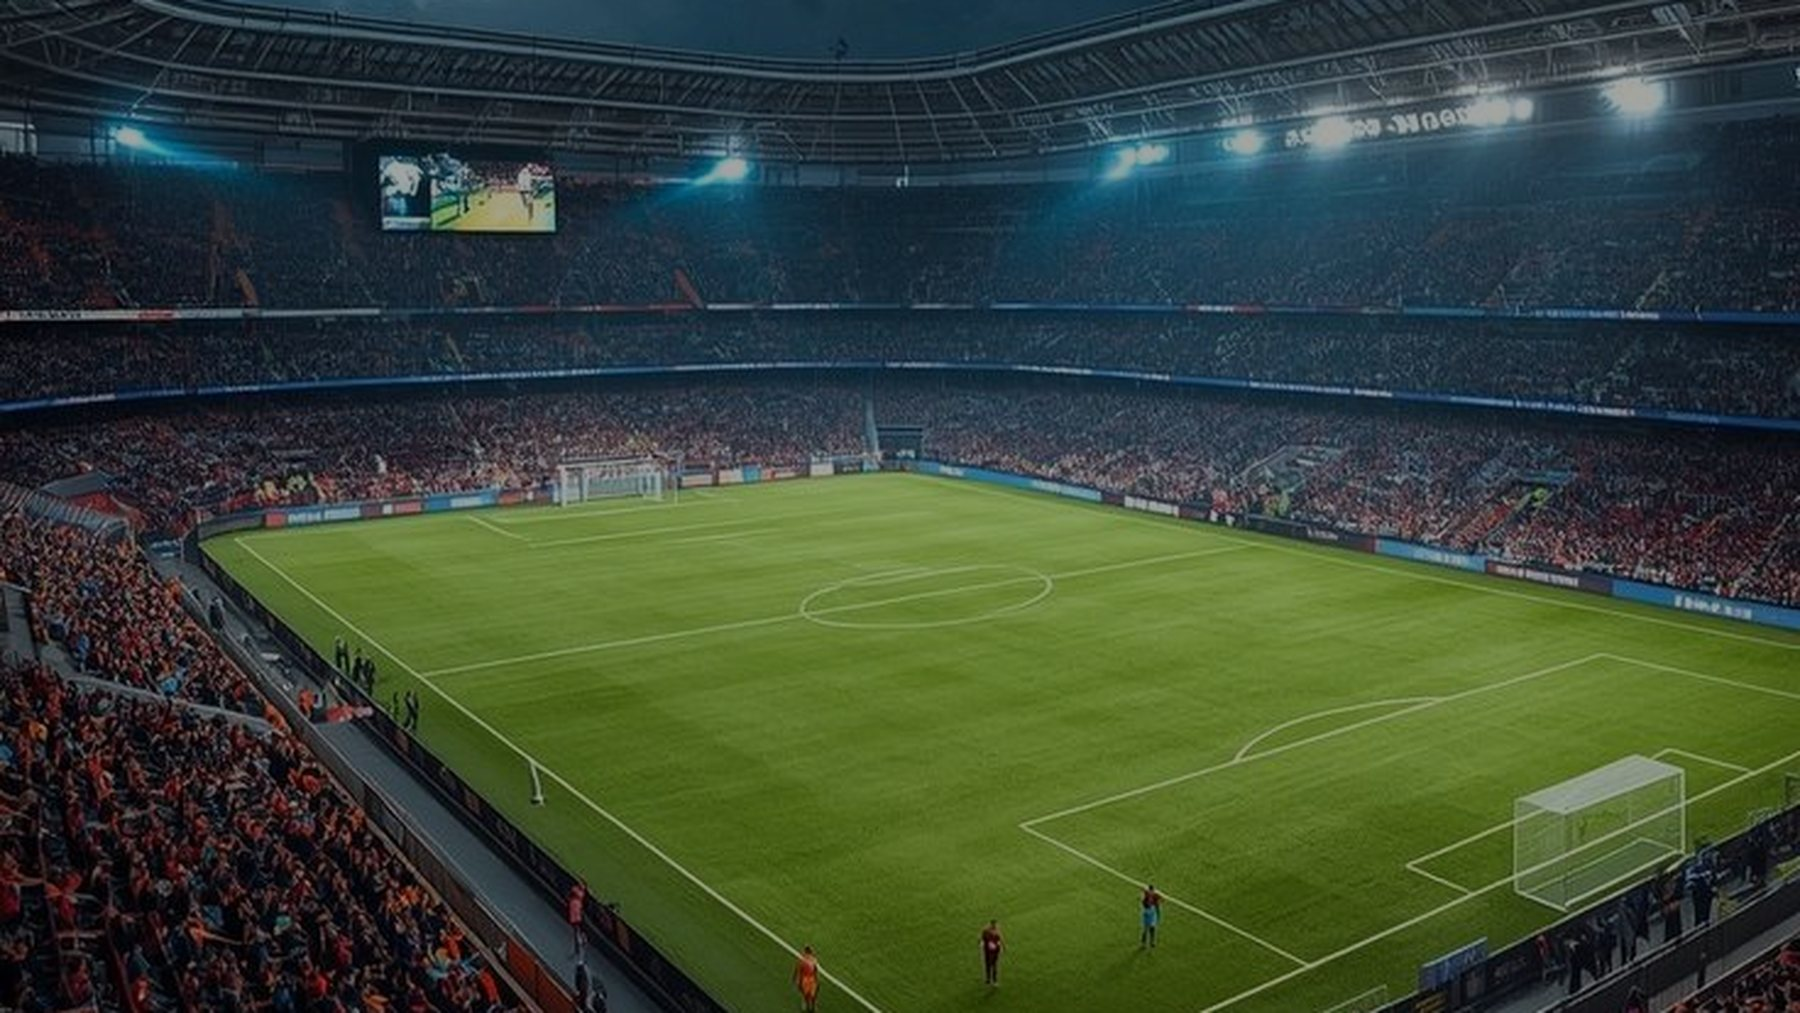
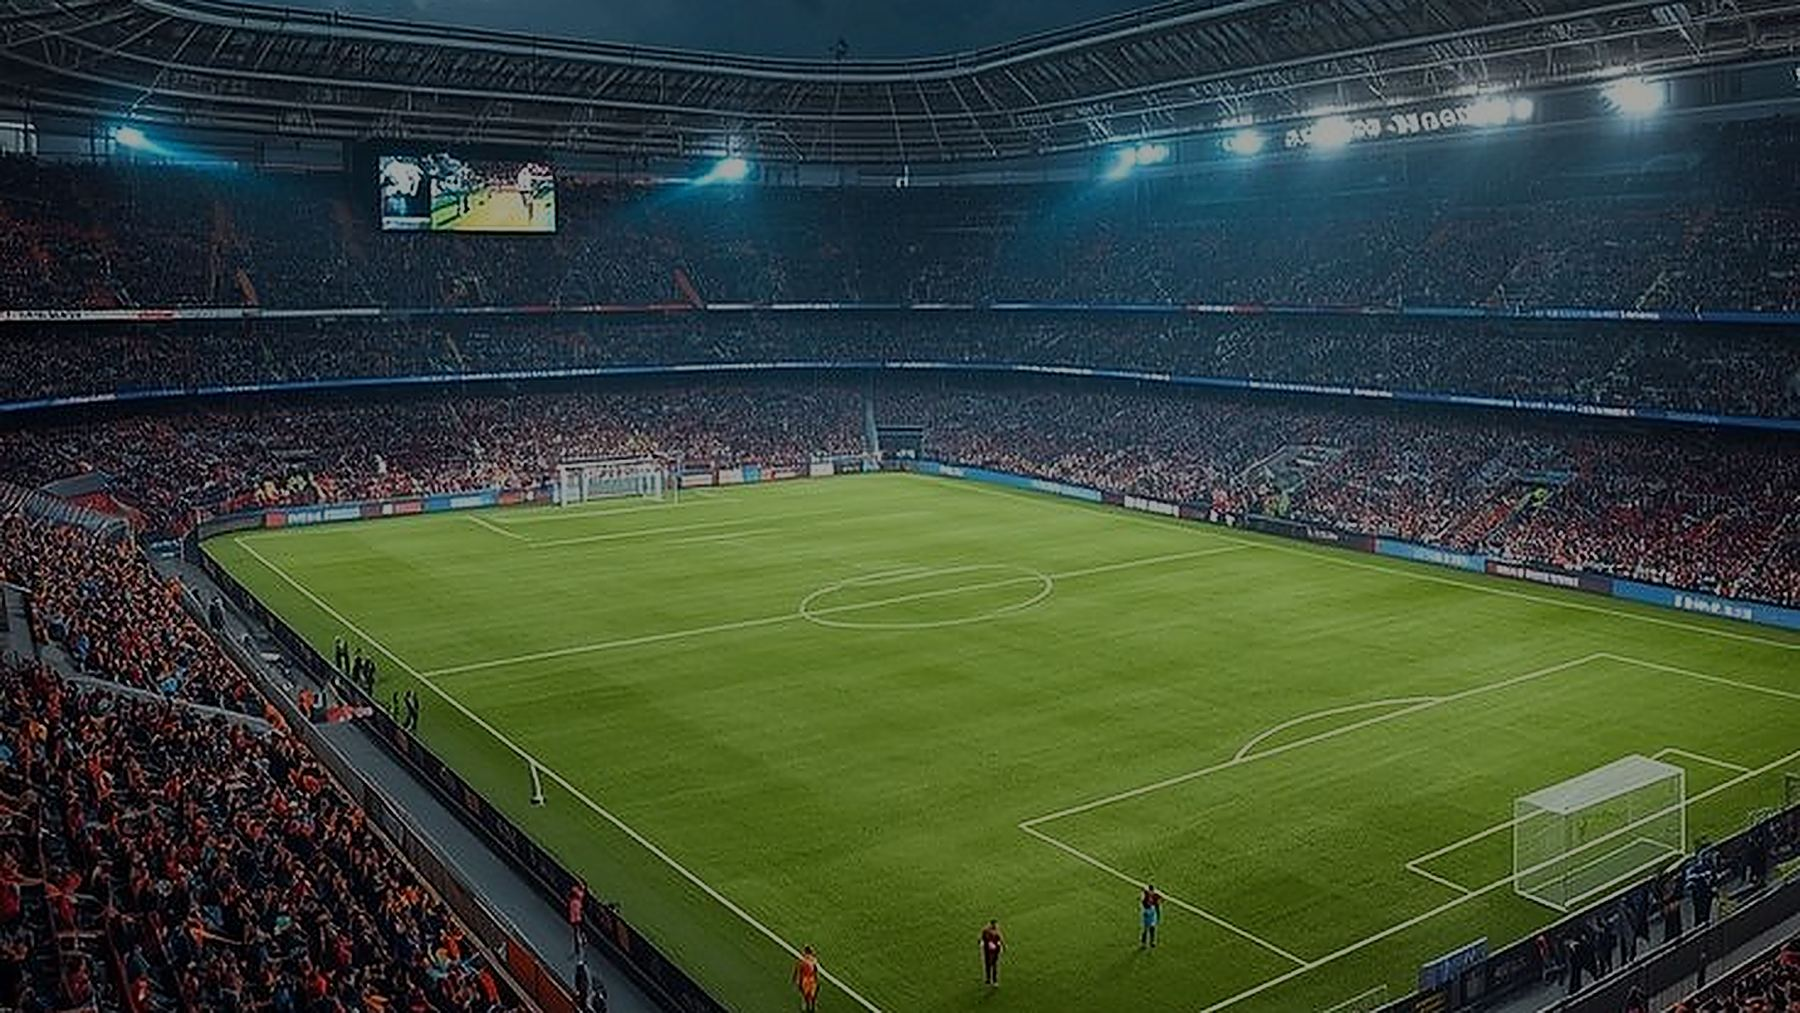
Stop throwing away detail on the way to the screen
The source is 736px wide; there is no more information to be had. What there
was, three things were discarding:

One Lanczos jump straight to the target dissolves detail — the upscale now
goes in ~1.5x steps with an unsharp mask at each one. Serving 1800px to a
2x display makes the browser scale again with a dumb bilinear filter, so
there is a 2560px variant now. And blur(1.2px) existed to hide the hard
upscale of the first problem; with that fixed it was only erasing work, so
it drops to .35px.

WebP past 1800px: the same frame is 413KB as JPEG and 262KB as WebP. Format
and density are negotiated with image-set() behind an @supports guard —
NOT inside the custom property, because an invalid var() computes to none
rather than falling back to the previous declaration, which would erase the
background entirely on older browsers. The JPEG stays as that fallback.
The preload now carries imagesrcset with the same two densities and the
same ?v=, so exactly one file is fetched: verified, 263KB, no duplicate.

Sharpening raises local highlights and the blur no longer softens them, so
the scrim was re-measured against the real text geometry rather than an
estimate — read out of a 390px iframe, which is what finally showed the
mobile header sits at y=109..195, twice the share of the viewport it takes
on desktop, with the floodlights directly behind it. Desktop goes to 64%
and mobile gets its own 78% profile. Worst point of the entire header band,
[…]

diff --git a/app/premium.css b/app/premium.css
@@ -58,11 +58,13 @@ h2, .card-head h2, .br-title, .fx-date {
   position: absolute; inset: -1.5%;
   background-image: var(--bg-estadio);
   background-size: cover; background-position: 50% 38%;
-  /* El original es pequeño: un desenfoque mínimo es más honesto que un
-     escalado duro, y de paso lo aparta del contenido. */
+  /* El desenfoque estaba en 1.2px para tapar un escalado duro. Ahora el
+     escalado se hace por pasos con máscara de enfoque y se entrega a 2560,
+     así que ese px y pico de desenfoque ya solo estaba tirando detalle a la
+     basura. A .35 sigue apartando la foto del contenido sin emborronarla. */
   /* `brightness` domada: la foto trae un estallido de luz arriba al centro y
      sin bajarlo las fichas de vidrio que caen ahí se lavaban a blanco. */
-  filter: saturate(.92) contrast(1.1) brightness(.98) blur(1.2px);
+  filter: saturate(.92) contrast(1.1) brightness(.98) blur(.35px);
 }
 @media (max-width: 48rem) {
   .vb-photo { background-image: var(--bg-estadio-movil); background-position: 50% 30%; }
@@ -95,18 +97,31 @@ h2, .card-head h2, .br-title, .fx-date {
    abajo. El perfil viejo hacía lo contrario de lo que hace falta: 46 % arriba,
    donde va el titular, y 88 % al final, donde no hay nada que leer.
 
-   Los números salen de medir, no de tantear. Con el encuadre nuevo el borde
-   del techo y los reflectores caen justo detrás del subtítulo, y a 46 % el
-   texto secundario daba 3.21:1 — por debajo de AA. El 60 % de la primera
-   parada lo sube a 4.68:1. La rampa larga hasta el 34 % es para que el corte
-   no se vea: 150 px para bajar .31 de alfa. */
+   Los números salen de medir, no de tantear: el borde del techo y los
+   reflectores caen justo detrás del subtítulo. La rampa larga es para que el
+   escalón no se vea — unos 140 px para bajar .35 de alfa.
+
+   Móvil lleva su propio perfil, más abajo, y no por capricho: ahí la cabecera
+   empieza en y=109 y termina en y=195, o sea que ocupa el doble de proporción
+   de pantalla que en escritorio, y el recorte vertical pone los reflectores
+   justo detrás. Con el perfil de escritorio el rótulo daba 3.12:1. */
 .view-bg.is-stadium .vb-scrim {
   background:
     radial-gradient(90% 60% at 50% 0%, rgba(var(--accent-rgb), .14), transparent 62%),
     linear-gradient(180deg,
-      rgba(4,8,16,.60) 0%,  rgba(4,8,16,.55) 14%,
-      rgba(4,8,16,.24) 34%, rgba(4,8,16,.30) 58%,
+      rgba(4,8,16,.64) 0%,  rgba(4,8,16,.59) 16%,
+      rgba(4,8,16,.24) 36%, rgba(4,8,16,.30) 58%,
       rgba(4,8,16,.62) 100%);
+}
+@media (max-width: 48rem) {
+  .view-bg.is-stadium .vb-scrim {
+    background:
+      radial-gradient(90% 60% at 50% 0%, rgba(var(--accent-rgb), .14), transparent 62%),
+      linear-gradient(180deg,
+        rgba(4,8,16,.78) 0%,  rgba(4,8,16,.73) 22%,
+        rgba(4,8,16,.24) 44%, rgba(4,8,16,.30) 62%,
+        rgba(4,8,16,.62) 100%);
+  }
 }
 
 /* La cancha a sangre también recibe grano, por coherencia de material. */

diff --git a/themes/momentum.css b/themes/momentum.css
@@ -243,8 +243,8 @@
    al revés, en escritorio el estadio se recorta a una franja y se pierden
    las gradas y los reflectores, que es lo que hace la foto.               */
 
-  --bg-estadio:        url('../assets/fondos/estadio-desktop.jpg?v=5');
-  --bg-estadio-movil:  url('../assets/fondos/estadio-mobile.jpg?v=5');
+  --bg-estadio:        url('../assets/fondos/estadio-desktop.jpg?v=6');
+  --bg-estadio-movil:  url('../assets/fondos/estadio-mobile.jpg?v=6');
 
 /* ── 8. HALOS DEL FONDO POR DEPORTE ────────────────────────────────────── */
 
@@ -253,4 +253,24 @@
   --halo-tenis:     rgba(80,210,160,.28);
   --halo-voleibol:  rgba(220,160,80,.26);
   --halo-paintball: rgba(229,35,31,.24);
+}
+
+/* El original de la foto son 736 px de ancho: todo lo que se sirve es un
+   escalado. Se entrega a 2560 para que la pantalla retina no vuelva a
+   escalar encima con un filtro bilineal tonto —eso es la mitad de la
+   sensación de "poco HD"—, y en WebP porque a esa resolución el JPEG pesa
+   413 KB y el WebP 262 KB por la misma imagen.
+
+   Va en @supports y NO dentro del token directamente: si un navegador no
+   entiende `image-set`, un `var()` inválido no cae al valor anterior —
+   computa a `none` y el fondo desaparece entero. Así el respaldo JPEG de
+   arriba se queda intacto para quien no llegue aquí. */
+@supports (background-image: image-set(url('a.webp') type('image/webp') 1x)) {
+  :root {
+    --bg-estadio: image-set(
+      url('../assets/fondos/estadio-desktop.webp?v=6')    type('image/webp') 1x,
+      url('../assets/fondos/estadio-desktop@2x.webp?v=6') type('image/webp') 2x);
+    --bg-estadio-movil: image-set(
+      url('../assets/fondos/estadio-mobile.webp?v=6') type('image/webp') 1x);
+  }
 }

diff --git a/index.html b/index.html
@@ -10,7 +10,7 @@
 <meta property="og:type" content="website">
 <meta property="og:title" content="Sportplatz — reservas, torneos y Neo AI para canchas">
 <meta property="og:description" content="Configura tu complejo deportivo en cuatro preguntas y entra a la plataforma: agenda por hora, torneos con llaves que avanzan solas, equipos con su histórico y un bot que reserva por WhatsApp.">
-<meta property="og:image" content="assets/fondos/estadio-desktop.jpg?v=5">
+<meta property="og:image" content="assets/fondos/estadio-desktop.jpg?v=6">
 <meta name="theme-color" content="#0a0c0b">
 <meta name="twitter:card" content="summary_large_image">
 
@@ -24,10 +24,15 @@
 <link rel="stylesheet" href="app/base.css">
 <link rel="stylesheet" href="app/premium.css">
 
-<!-- La versión tiene que coincidir con la de momentum.css: sin ella el
-     navegador precarga una URL y la hoja pide otra — dos descargas, cero
-     beneficio. -->
-<link rel="preload" as="image" href="assets/fondos/estadio-desktop.jpg?v=5" media="(min-width: 48rem)">
+<!-- La precarga tiene que pedir EXACTAMENTE lo que va a pedir la hoja de
+     estilos, versión incluida, o son dos descargas y cero beneficio. Como el
+     fondo se sirve por `image-set`, aquí va `imagesrcset` con las mismas dos
+     densidades: el navegador precarga una sola, la que le toca. El atributo
+     `type` hace que quien no entienda WebP se salte la precarga y se quede
+     con el JPEG que pide la hoja. -->
+<link rel="preload" as="image" type="image/webp" media="(min-width: 48rem)"
+      imagesrcset="assets/fondos/estadio-desktop.webp?v=6 1x,
+                   assets/fondos/estadio-desktop@2x.webp?v=6 2x">
 
 <link rel="icon" type="image/png" href="assets/marca/favicon.png">
 <link rel="apple-touch-icon" href="assets/marca/favicon.png">

diff --git a/app/core/sports.js b/app/core/sports.js
@@ -131,7 +131,7 @@ export const SPORT_LIST = Object.values(SPORTS);
    cuando el archivo no existía se queda igual de pegada — que es exactamente
    lo que pasó con la de tenis.
    SUBE ESTE NÚMERO cada vez que reemplaces una imagen conservando el nombre. */
-export const ASSET_V = '5';
+export const ASSET_V = '6';
 export const conVersion = (ruta) => ruta ? `${ruta}?v=${ASSET_V}` : ruta;
 
 export const ballSVG = (sport, cls = '') =>

diff --git a/DESIGN.md b/DESIGN.md
@@ -282,22 +282,30 @@ Sobre la foto del estadio hay exactamente **tres** textos sin superficie propia
 debajo, y los tres viven en los 130 px de arriba: el rótulo, el titular y la
 línea de resumen. Todo lo demás llega con su vidrio oscuro puesto.
 
-Por eso el velo es un escalón y no una lámina: **60 % en la cabecera, 24 % en el
+Por eso el velo es un escalón y no una lámina: **64 % en la cabecera, 24 % en el
 cuenco, 62 % al pie.** El perfil anterior hacía justo lo contrario —46 % arriba
 y 88 % abajo— porque estaba calibrado contra un encuadre que terminaba en
 césped quemado. Con el actual apagaba la grada entera y dejaba el titular a
 `3.21:1`.
 
+**Móvil lleva su propio perfil: 78 % / 24 % / 62 %.** No es capricho. Ahí la
+cabecera va de y=109 a y=195 —el doble de proporción de pantalla que en
+escritorio— y el recorte vertical le pone los reflectores justo detrás. Con el
+perfil de escritorio el rótulo caía a `3.12:1`.
+
 Medido en el punto más claro de cada banda, sobre la composición completa
 (foto → haces en `screen` → velo):
 
-| Texto | Contraste | Mínimo |
-|---|---|---|
-| Rótulo `#34d399` 11 px | 8.03:1 | 4.5 |
-| Titular 34 px blanco | 8.29:1 | 3.0 |
-| Resumen 13 px al `.74` | 4.92:1 | 4.5 |
+| Texto | Escritorio | Móvil | Mínimo |
+|---|---|---|---|
+| Rótulo `#34d399` 11 px | 6.87:1 | 5.64:1 | 4.5 |
+| Titular blanco | 8.83:1 | 7.85:1 | 3.0 |
+| Resumen 13 px al `.74` | 5.27:1 | 4.46:1 | 4.5 |
+| Cualquier texto al `.74`, en **cualquier** punto de la franja | 5.15:1 | 5.25:1 | 4.5 |
 
-En móvil el mismo perfil da 5.35:1 y 5.56:1 — no hace falta una versión aparte.
+> La última fila es la que de verdad protege: las tres primeras miden cada
+> texto donde está hoy, y un titular más largo o una vista con otra línea de
+> resumen se mueve. La franja entera aguanta.
 
 **Los haces sintéticos bajaron a la mitad.** Existían porque el encuadre viejo
 era casi todo cielo y no había luz propia arriba que dibujara volumen. El
@@ -307,10 +315,21 @@ las esquinas superiores y casar la foto con la marca.
 
 ### Las fotos de fondo
 
-`assets/fondos/estadio-desktop.jpg` (horizontal) y `estadio-mobile.jpg`
-(vertical). La horizontal va a escritorio y la vertical a móvil: al revés, en
-escritorio el estadio se recorta a una franja y se pierden las gradas y los
-reflectores, que es lo que hace la foto.
+La horizontal va a escritorio y la vertical a móvil: al revés, en escritorio el
+estadio se recorta a una franja y se pierden las gradas y los reflectores, que
+es lo que hace la foto.
+
+| Archivo | Tamaño | Peso | Para |
+|---|---|---|---|
+| `estadio-desktop.jpg` | 1800×1013 | 285 KB | Respaldo: navegador sin WebP o sin `image-set` |
+| `estadio-desktop.webp` | 1800×1013 | 180 KB | Escritorio 1x |
+| `estadio-desktop@2x.webp` | 2560×1440 | 262 KB | Escritorio retina |
+| `estadio-mobile.jpg` | 1200×1920 | 349 KB | Respaldo móvil |
+| `estadio-mobile.webp` | 1200×1920 | 241 KB | Móvil |
+
+Se descarga **una sola**: la precarga de `index.html` lleva `imagesrcset` con
+las mismas dos densidades y el mismo `?v=`, así que pide exactamente lo que
+después pedirá la hoja de estilos.
 
 Las dos se llevan a **luminancia media ~67** antes de entrar al repo. Es el
 número donde el vidrio oscuro de las tarjetas todavía se despega del fondo y la
@@ -325,12 +344,27 @@ techo con los reflectores— y bajan hacia el césped:
 
 | | Recorte del original (736×1308) | Sale a |
 |---|---|---|
-| Horizontal | `0,470 → 736,884` (banda 16:9) | 1800×1013 |
-| Vertical | `106,470 → 630,1308` | 900×1440 |
+| Horizontal | `0,470 → 736,884` (banda 16:9) | 1800 y 2560 de ancho |
+| Vertical | `106,470 → 630,1308` | 1200×1920 |
 
-> Las dos son un escalado de ×2,45 y ×1,72 sobre un original pequeño. Se
-> asume: el fondo va velado y desenfocado 1,2 px, y un escalado suave miente
-> menos que un recorte duro.
+### Sacarle nitidez a un original de 736 px
+
+No hay más información que la que trae el archivo; lo que sí se puede es dejar
+de tirarla por el camino. Tres cosas lo hacían:
+
+1. **Un solo salto de Lanczos** hasta el destino disuelve el detalle. Ahora el
+   escalado va **por pasos de ×1,5 con máscara de enfoque en cada uno**
+   (`radius 1.1, percent 55, threshold 2`). La estructura del techo, la letra
+   del cartel y el grano de la grada sobreviven.
+2. **Entregar 1800 px a una pantalla retina** obliga al navegador a escalar
+   otra vez encima, con un filtro bilineal tonto. Por eso existe el `@2x`.
+   Media sensación de "poco HD" era esto.
+3. **`blur(1.2px)` en el CSS.** Estaba para tapar el escalado duro del punto 1.
+   Arreglado el escalado, ese píxel y pico solo estaba borrando trabajo.
+   Ahora **`.35px`**: sigue apartando la foto del contenido sin emborronarla.
+
+> WebP y no JPEG a partir de aquí: a 2560 px el mismo fotograma pesa 413 KB en
+> JPEG y 262 KB en WebP. El JPEG de 1800 se queda como respaldo.
 
 > Reemplazar una foto **conservando el nombre** obliga a subir `ASSET_V` en
 > `app/core/sports.js`. Sin build no hay hash en el nombre, y sin versión
